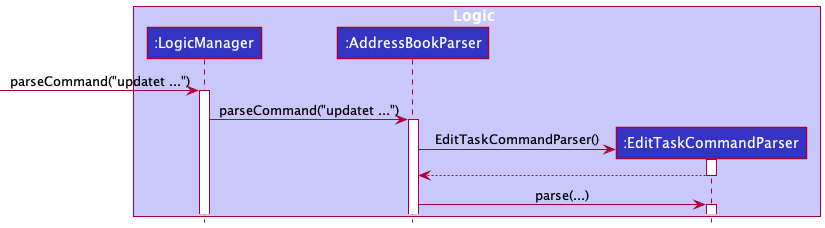
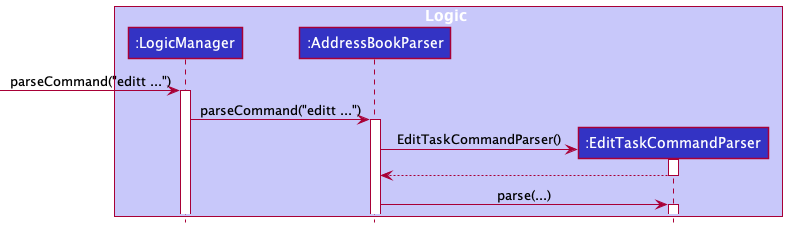
Update DG for EditTaskCommand

diff --git a/docs/UserGuide.md b/docs/UserGuide.md
@@ -215,19 +215,19 @@ Examples:
 * `deletet 2` Deletes the task at index 2.
 
 
-### Updating a task: `updatet`
-Updates an existing task in the task list.
+### Editing a task: `editt`
+Edits an existing task in the task list.
 
-Format: `updatet INDEX [tn/TASKNAME] [dt/DATETIME, ENDDATETIME*] [t/TAG]`
+Format: `editt INDEX [tn/TASKNAME] [dt/DATETIME, ENDDATETIME*] [t/TAG]`
 
 * Updates the task at the specified `INDEX`. The index refers to the index number shown in the displayed task list. The index **must be a positive integer** 1, 2, 3, …
 * At least one of the optional fields must be provided.
 * Existing values will be updated to the input values.
 
 Examples:
-* `updatet 1 n/Meeting with TAs` Updates the name of the 1st displayed task to be `Meeting with TAs`
-* `updatet 2 n/Meeting with Prof Tan dt/2022-12-01 1200` Updates the name of the 2nd displayed task to be `Meeting with Profs Tan` and the date to be 1st Dec 2022, 12pm.
-* `updatet 1 dt/2022-12-12 1200, 2022-12-12 1400` Updates the datetime of the 1st displayed task to be on `12th Dec 2022, 12-2pm.`
+* `editt 1 n/Meeting with TAs` Updates the name of the 1st displayed task to be `Meeting with TAs`
+* `editt 2 n/Meeting with Prof Tan dt/2022-12-01 1200` Updates the name of the 2nd displayed task to be `Meeting with Profs Tan` and the date to be 1st Dec 2022, 12pm.
+* `editt 1 dt/2022-12-12 1200, 2022-12-12 1400` Updates the datetime of the 1st displayed task to be on `12th Dec 2022, 12-2pm.`
 
 <div markdown="span" class="alert alert-warning">:bulb: **Tip**
 If there's no need to change a certain field you can leave it out!<br>

diff --git a/docs/DeveloperGuide.md b/docs/DeveloperGuide.md
@@ -221,7 +221,7 @@ Once user parse in the command, it will be handled by `AddressBookParser#parseCo
 
 Step 2: `EditTaskCommandParser` will call `ParseUtil#parseIndex()` to get the task index.
 Then `EditTaskCommandParser` will create `EditTaskDescriptor editTaskDescriptor`. `EditTaskCommandParser` will check if the
-task name, datatime or tag prefix exist. It is optional to not have all the prefixes as user may not want to change certain field.
+task name, datetime or tag prefix exist. It is optional to not have all the prefixes as user may not want to change certain field.
 For each prefix in the command, it will set the value to `editTaskDescriptor`.
 ![EditTaskSequenceDiagramstate1](images/EditTaskDiagram/EditTaskSequenceDiagramState1.png)
 
